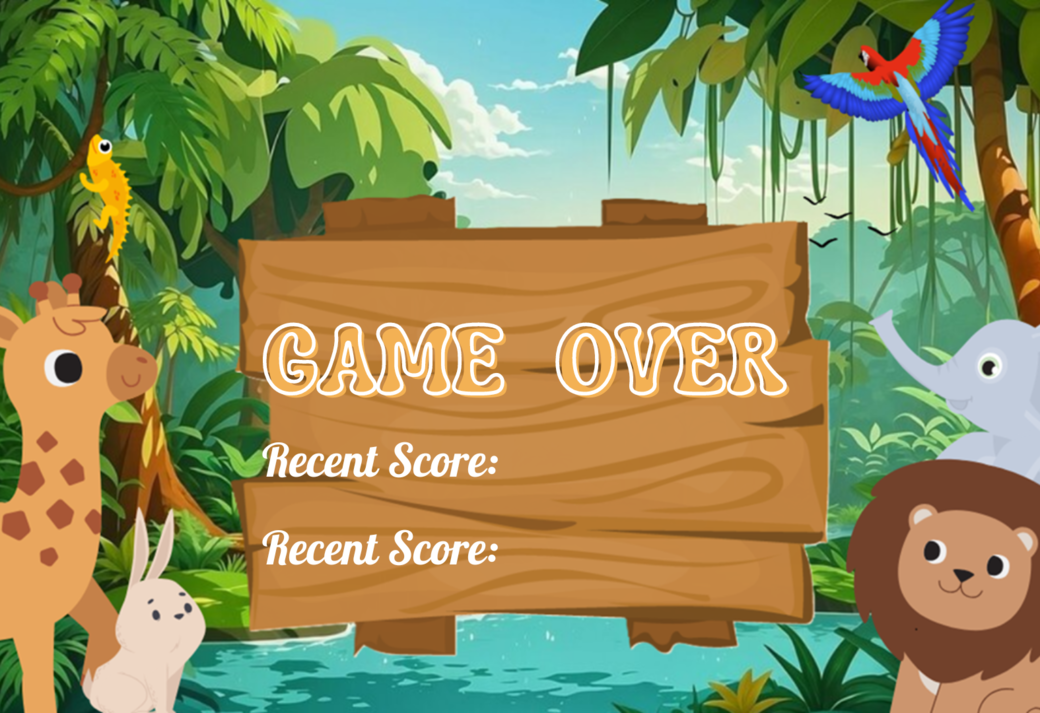
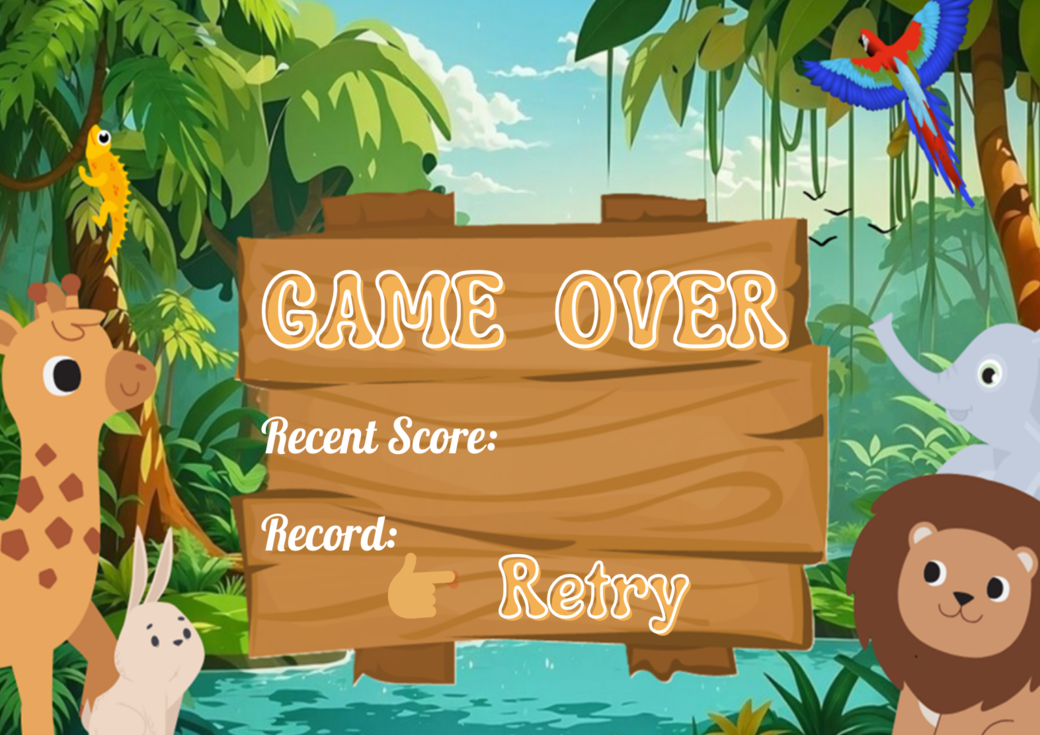
add restart in gameOver

diff --git a/src/GameOverState.java b/src/GameOverState.java
@@ -52,7 +52,7 @@ public class GameOverState implements GameStateBase {
         g.drawImage(mn[0], 0, 0, null);
 
         g.setFont(font);
-        g.drawString(Integer.toString(score), 540, 480);
+        g.drawString(Integer.toString(score), 540, 450);
 
     }
 
@@ -61,7 +61,17 @@ public class GameOverState implements GameStateBase {
     }
 
     public void mouse_click(int mx, int my) {
+        // System.out.println(mx + " " + my);
+        // RESTART
+        if (new Rectangle(510, 560, 160, 100).contains(mx, my)) {
+            SoundEffect.play(6);
+            SoundEffect.StopBGM();
+            SoundEffect.playBGM(0);
+            GamePlay.getInstance(gamepanel).restart();
+            gamepanel.getGameStateManager().setState(1);
+            GamePlay.getInstance(gamepanel).startTimer();
 
+        }
     }
 
     public void update() {
